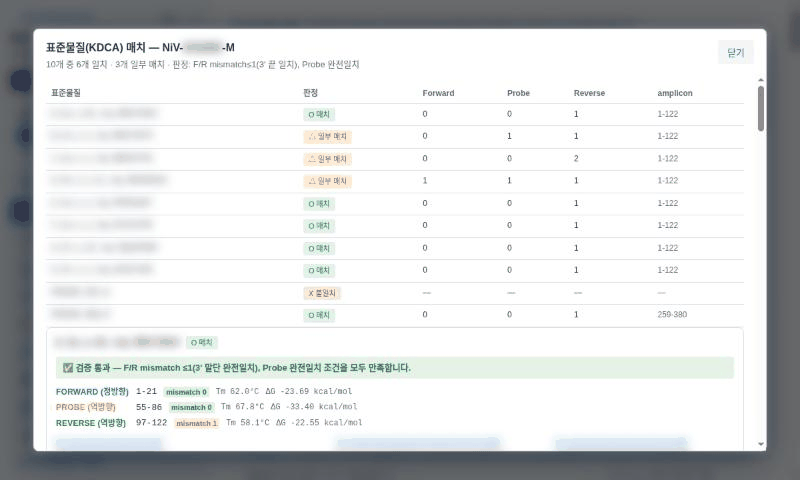
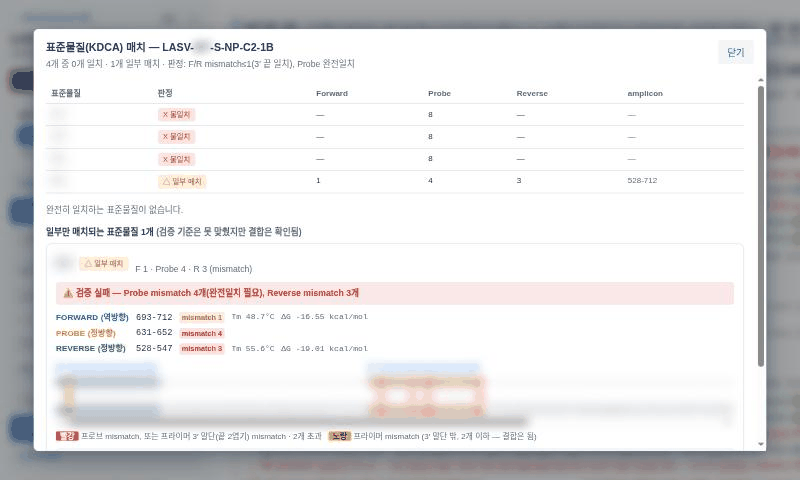
Update (LASV): code only, same rules as before

diff --git a/tests/test_citation_file.py b/tests/test_citation_file.py
@@ -1,0 +1,31 @@
+"""CITATION.cff (GitHub's "Cite this repository") must be valid and agree with the project."""
+from pathlib import Path
+
+import pytest
+import yaml
+
+ROOT = Path(__file__).resolve().parent.parent
+
+
+def load():
+    return yaml.safe_load((ROOT / "CITATION.cff").read_text(encoding="utf-8"))
+
+
+def test_required_fields():
+    c = load()
+    for key in ("cff-version", "message", "title", "authors", "version", "date-released", "license", "repository-code"):
+        assert c.get(key), key
+    assert str(c["cff-version"]).startswith("1.2")
+    assert all(a.get("family-names") and a.get("given-names") for a in c["authors"])
+
+
+def test_version_matches_the_project():
+    assert str(load()["version"]) == (ROOT / "VERSION").read_text(encoding="utf-8").strip()
+
+
+def test_the_readmes_show_the_same_reference():
+    c = load()
+    for name in ("README.md", "README.ko.md"):
+        text = (ROOT / name).read_text(encoding="utf-8")
+        assert "@software" in text and c["repository-code"] in text and f"version = {{{c['version']}}}" in text, name
+        assert "CITATION.cff" in text

diff --git a/CHANGELOG.md b/CHANGELOG.md
@@ -6,12 +6,14 @@ All notable changes to this project are documented here. Format follows
 ## [Unreleased]
 
 ### Changed
+- **화면 자료를 에디션에 맞게**: README의 스크린샷과 GIF를 LASV 화면으로 다시 촬영했습니다(업체명·서열·표준물질 이름은 블러). 인용(LASV): `CITATION.cff`, README의 BibTeX.
 - **README를 EsViritu 형식으로**: 영어 `README.md`(특징, 개략도, 대시보드 스크린샷, 번호 단계 설치, 사례별 실행, 결과 파일, 인용)와 한국어 `README.ko.md`. 파이프라인 개략도 `docs/schematic/pipeline_schematic.svg`와 정지 스크린샷 3장을 추가했습니다.
 - **README를 짧게**: 도구 설명, 필요한 것, 빠른 시작, **mfeprimer 설정**(받는 곳·실행 권한·경로 지정 4가지·확인), 입력 형식만 남기고 긴 설명은 `docs/PIPELINE.md`로 옮겼습니다.
 - **README 정리 + 화면 미리보기 GIF 3개**(`docs/media/`). 촬영용 도구 `docs/demo_blur.js`(업체명, 10염기 이상 서열, 프라이머/프로브/정렬 행, 서열 입력창, 표준물질 이름을 블러)와 `docs/make_gif.py`.
 - **GitHub에는 코드만**: 저장소에서 모든 염기서열을 없앴습니다. 테스트는 실제 프라이머·실제 mfeprimer 출력 대신 `tests/seqgen.py`가 만든 서열을 쓰고, `PUBLISHED_PRIMERS.md`는 추적에서 뺐습니다(로컬 파일). `.gitignore`가 FASTA/GenBank/엑셀/슬라이드 등을 막고, `tests/test_no_sequences_in_repo.py`가 긴 서열 리터럴, 실제 프라이머·표준물질의 12염기 조각(양 가닥), FASTA 레코드를 잡아냅니다.
 
 ### Added
+- **인용 방법**: `CITATION.cff`(GitHub의 "Cite this repository" 버튼)와 README의 BibTeX. 의존 도구 MFEprimer-3.0 논문도 `references`에 넣었습니다. `tests/test_citation_file.py`가 형식과 버전 일치를 확인합니다.
 - **숙주 기준(사람/동물/미상/전체)**: 커버리지의 기본 기준을 **사람 유래 게놈**으로 바꾸고(사람이 없는 바이러스는 전체), 사이드바의 "숙주 기준"에서 사람·동물·미상·전체로 전환합니다(개요, 세트·그룹 상세, MSA, 리니지 분포, 메타데이터 표의 "숙주 분류"). 실험 숙주(`is_lab_host`) 게놈은 어느 범위에도 포함하지 않으며 동물 안의 세부 분류는 하지 않습니다. 숙주 미기재 게놈은 "미상"입니다.
   - `scripts/host_scope.py`: 분류, 범위, 그리고 게놈 하나의 통과 판정(`reconcile.py`가 옮겨 쓰며 결과는 기존과 동일: 27개 세트의 요약·id 목록 대조 차이 0). `webapp/scope_view.py`: 웹 API가 같은 코드로 범위별 재계산.
   - `summary.tsv`/`group_summary.tsv`는 기본 범위 기준이며 `host_scope` 열이 붙습니다. 정적 보고서에도 "숙주 기준"을 표시합니다.

diff --git a/README.ko.md b/README.ko.md
@@ -172,6 +172,20 @@ python3 webapp/server.py --host 0.0.0.0 --port 8765
 
 # 인용
 
-아직 이 도구의 논문은 없습니다. 이 저장소와 함께 바탕이 된 도구를 인용해 주세요:
-**MFEprimer-3.0** (Wang K, et al. *Nucleic Acids Res.* 2019, doi:10.1093/nar/gkz351), MAFFT (Katoh & Standley 2013), pixy (Korunes & Samuk 2021), Snakemake (Mölder et al. 2021), Nextstrain (Hadfield et al. 2018).
+아직 이 도구의 논문은 없습니다. 아래처럼 이 소프트웨어를 인용하고, **바탕이 된 도구도 함께** 인용해 주세요.
+
+**이 소프트웨어** — GitHub 저장소 오른쪽의 **“Cite this repository”**([CITATION.cff](CITATION.cff) 기반)에서 APA와 BibTeX를 바로 복사할 수 있습니다. 직접 쓰려면:
+
+```bibtex
+@software{choi_taqman_primer_probe_validator_2026,
+  author  = {Choi, Chihwan},
+  title   = {TaqMan Primer/Probe Validator},
+  year    = {2026},
+  version = {0.19.0},
+  url     = {https://github.com/CHOICHI-HWAN/TaqmanPrimerProbeValidator}
+}
+```
+
+**바탕이 된 도구:** **MFEprimer-3.0** (Wang K, et al. *Nucleic Acids Res.* 2019, doi:10.1093/nar/gkz351), MAFFT (Katoh & Standley 2013), pixy (Korunes & Samuk 2021), Snakemake (Mölder et al. 2021), Nextstrain (Hadfield et al. 2018).
+
 서드파티 라이선스: [THIRD_PARTY_LICENSES.md](THIRD_PARTY_LICENSES.md) · [CHANGELOG.md](CHANGELOG.md) · MIT 라이선스, © 2026 Chihwan Choi.

diff --git a/README.md b/README.md
@@ -171,6 +171,20 @@ and `tests/test_no_sequences_in_repo.py` fails if a sequence slips in. Tests gen
 
 # Citation
 
-There is no publication for this tool yet. Please cite the repository together with the tools it builds on:
-**MFEprimer-3.0** (Wang K, et al. *Nucleic Acids Res.* 2019, doi:10.1093/nar/gkz351), MAFFT (Katoh & Standley 2013), pixy (Korunes & Samuk 2021), Snakemake (Mölder et al. 2021), Nextstrain (Hadfield et al. 2018).
+There is no publication for this tool yet. Please cite the software as below, **and** the tools it builds on.
+
+**This software** — on GitHub, **“Cite this repository”** (right sidebar, built from [CITATION.cff](CITATION.cff)) gives APA and BibTeX; or use:
+
+```bibtex
+@software{choi_taqman_primer_probe_validator_2026,
+  author  = {Choi, Chihwan},
+  title   = {TaqMan Primer/Probe Validator},
+  year    = {2026},
+  version = {0.19.0},
+  url     = {https://github.com/CHOICHI-HWAN/TaqmanPrimerProbeValidator}
+}
+```
+
+**Tools it builds on:** **MFEprimer-3.0** (Wang K, et al. *Nucleic Acids Res.* 2019, doi:10.1093/nar/gkz351), MAFFT (Katoh & Standley 2013), pixy (Korunes & Samuk 2021), Snakemake (Mölder et al. 2021), Nextstrain (Hadfield et al. 2018).
+
 Third-party licences: [THIRD_PARTY_LICENSES.md](THIRD_PARTY_LICENSES.md) · [CHANGELOG.md](CHANGELOG.md) · MIT licence, © 2026 Chihwan Choi.
